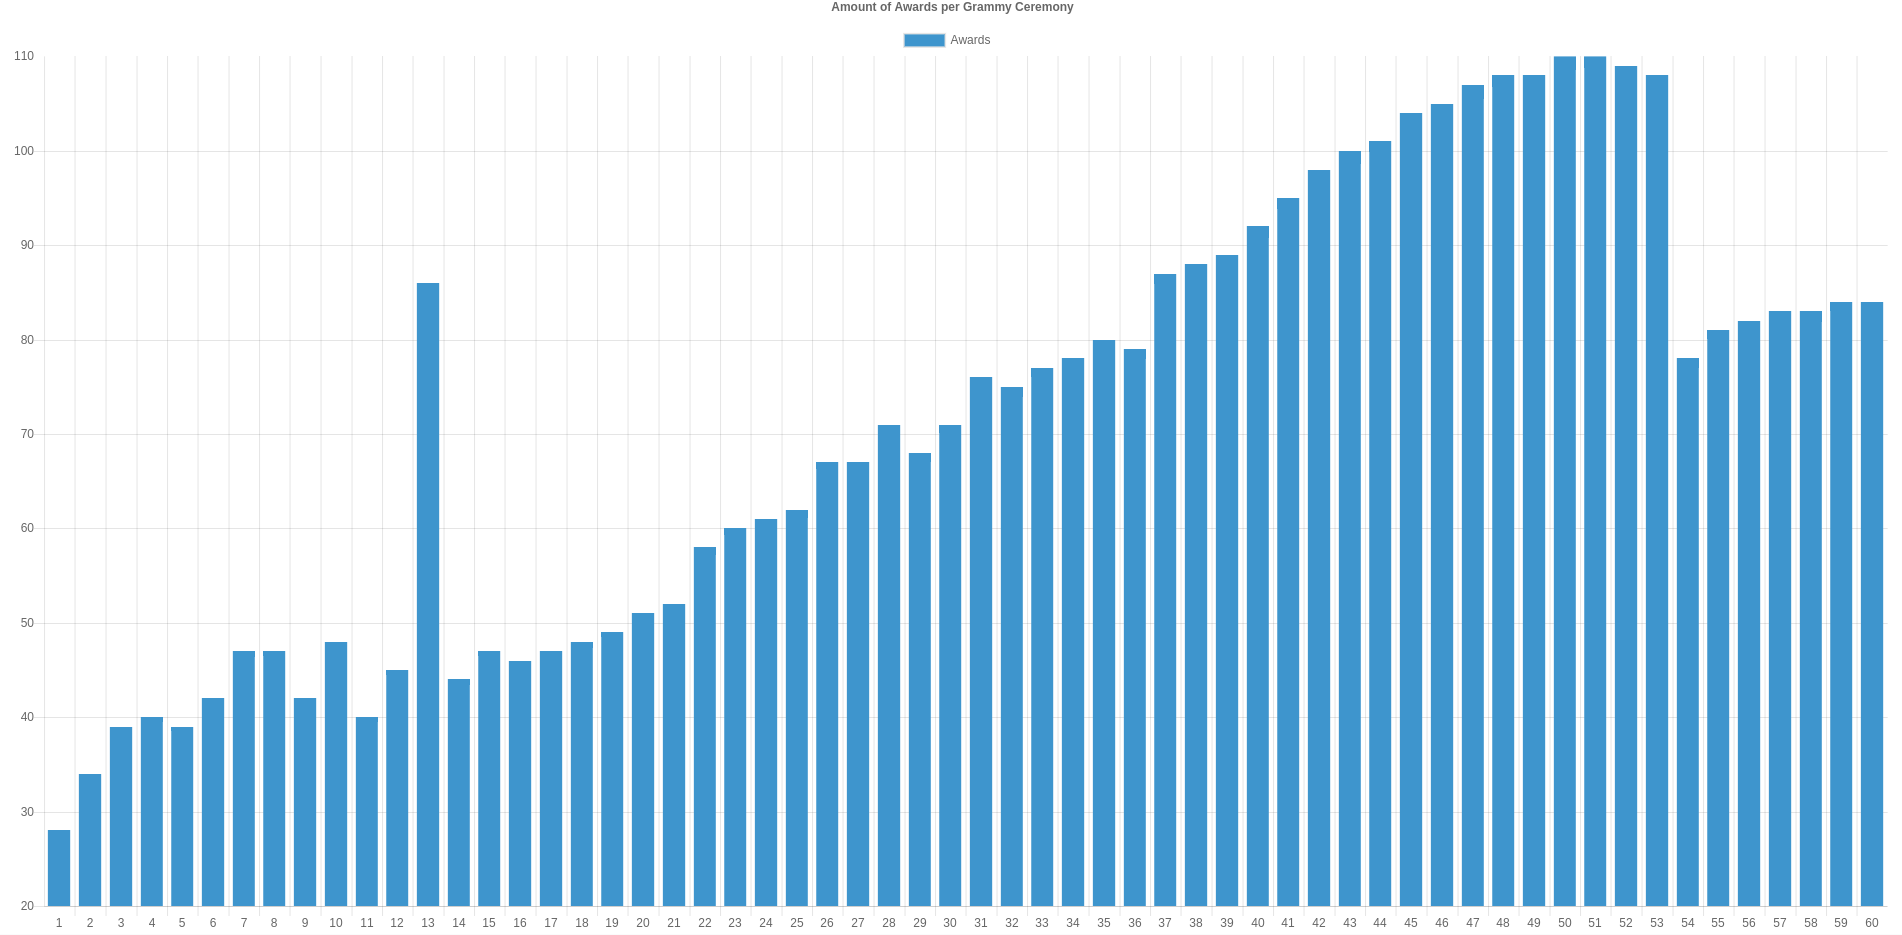
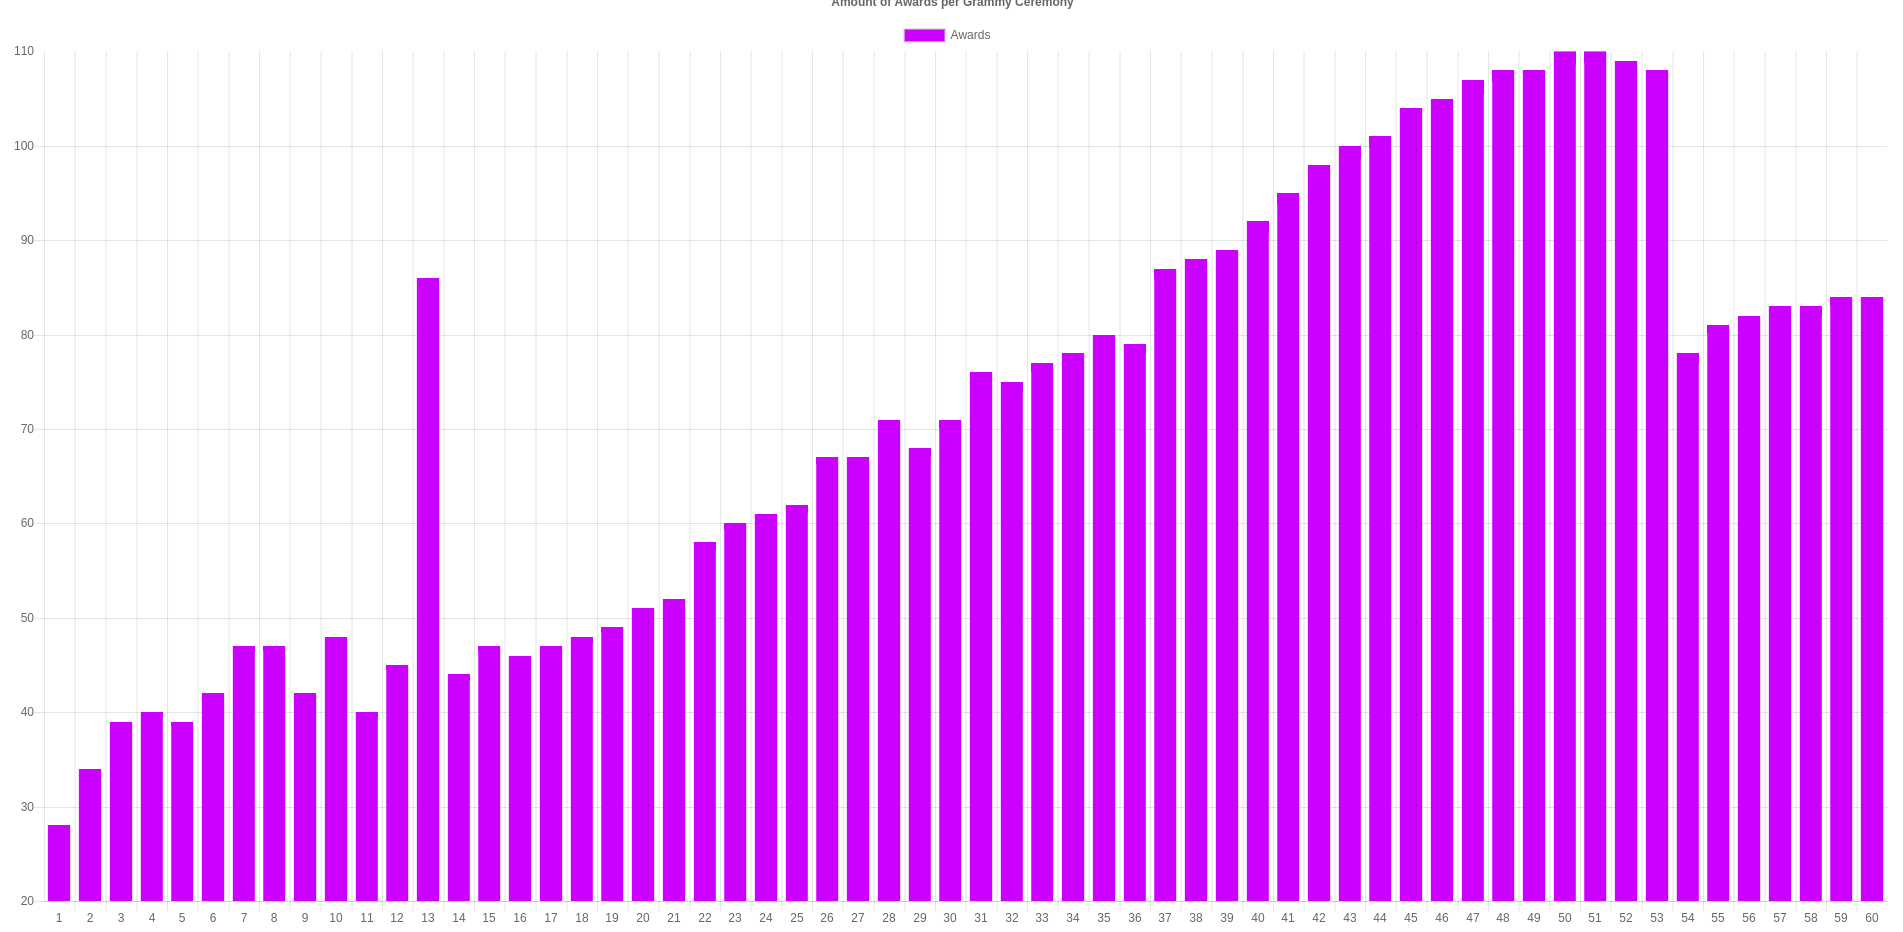
Added jan 27th

diff --git a/templates/Jan27.html b/templates/Jan27.html
@@ -26,7 +26,7 @@ new Chart(document.getElementById("bar-chart-grouped"), {
       datasets: [
         {
           label: "Awards",
-          backgroundColor: "#3e95cd",
+          backgroundColor: "#CC00FF",
           data: [{% for info in DATABASE %}"{{ info.awardNumber }}",{% endfor %}]
         }
       ]
